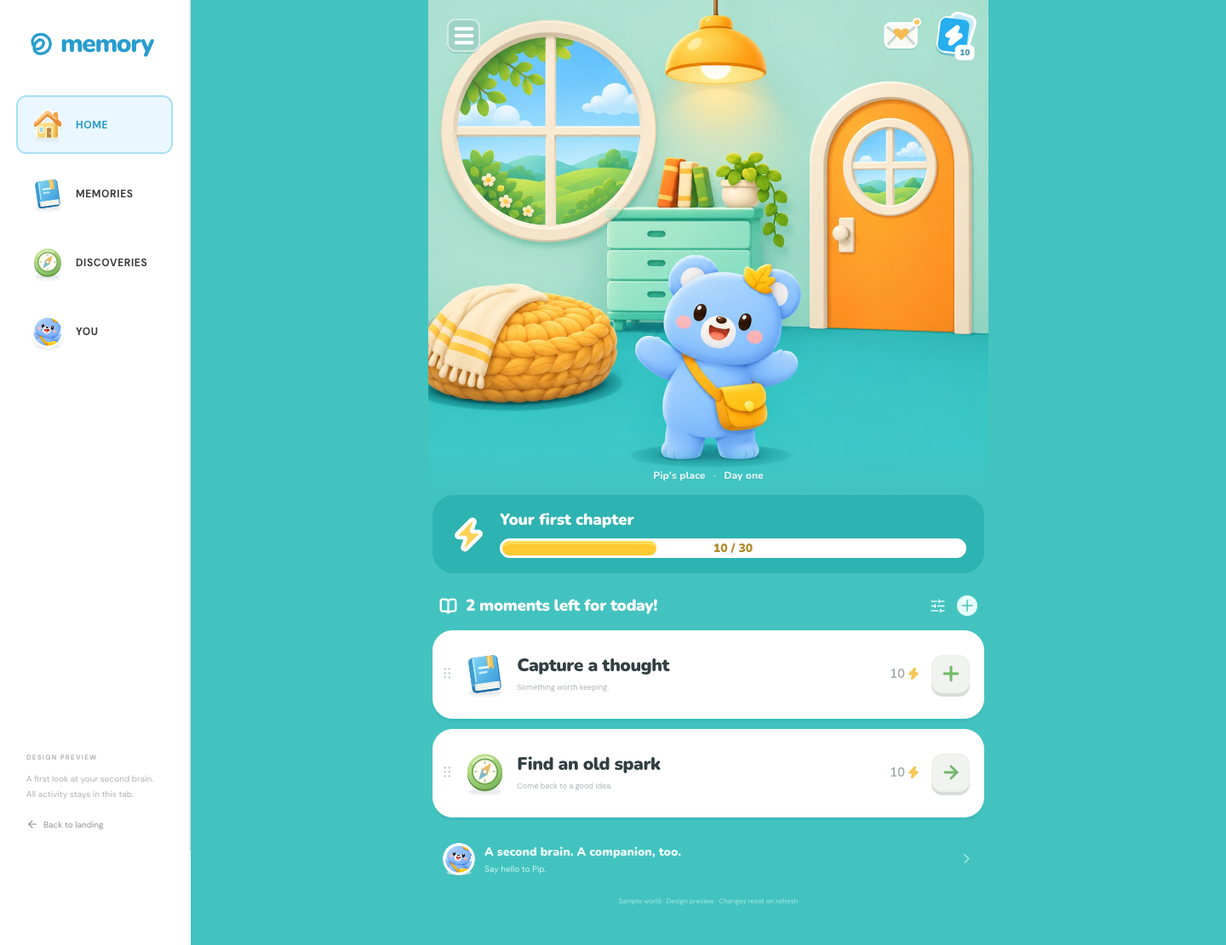
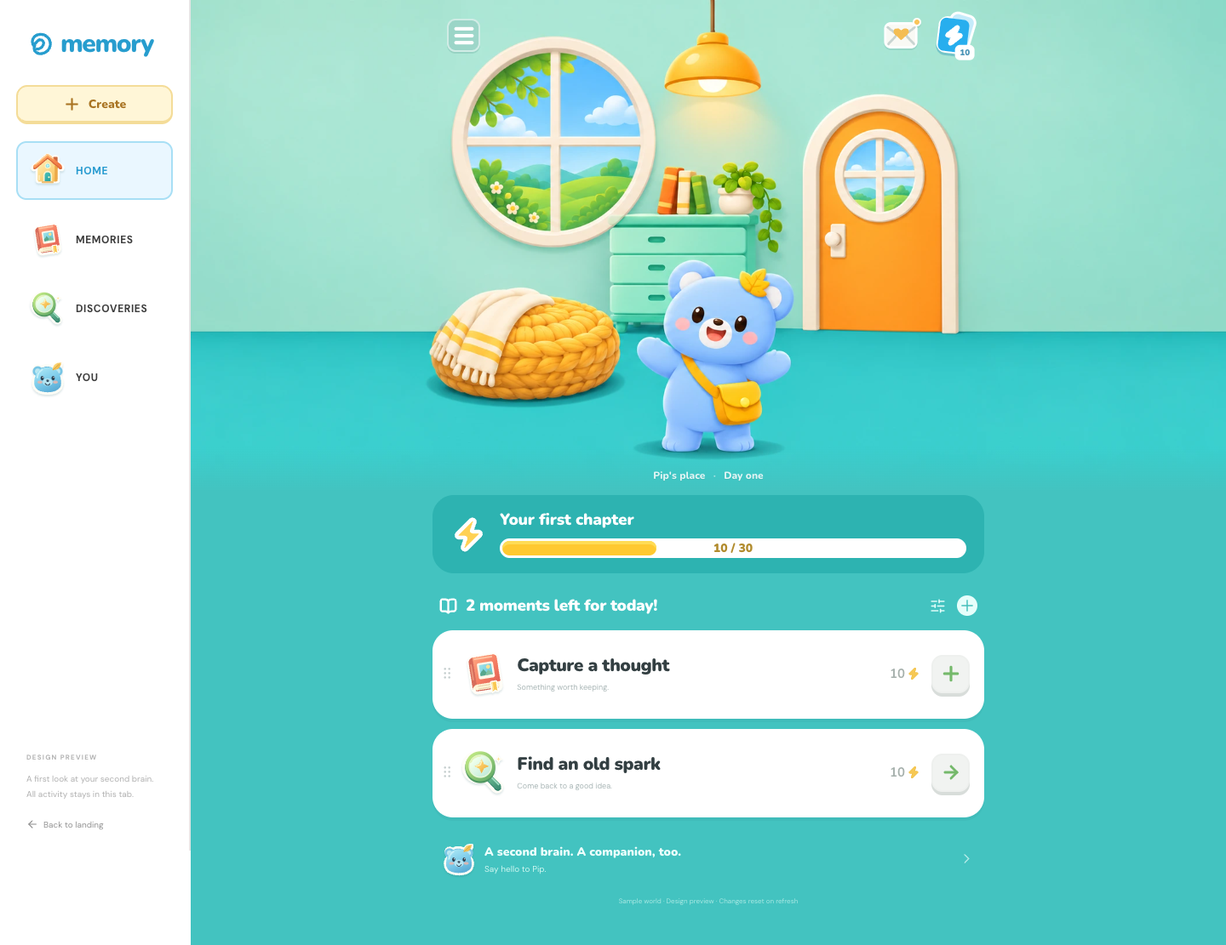
Refine app navigation and add quick actions and desktop room artwork

diff --git a/src/app/globals.css b/src/app/globals.css
@@ -93,8 +93,8 @@ svg { flex-shrink: 0; }
 .app-nav > button:hover { background: #f8f8f8; }
 .app-nav > button[aria-current="page"] { background: #eaf7ff; border-color: #a8dff5; color: #289bd0; }
 .nav-icon { display: flex; align-items: center; justify-content: center; width: 35px; height: 37px; }
-.illustrated-nav-icon { display: block; overflow: visible; transition: transform .18s; }
-.illustrated-nav-icon.icon-active { transform: translateY(-1px); }
+.illustrated-nav-icon { display: block; flex-shrink: 0; object-fit: contain; transition: transform .18s; }
+.illustrated-nav-icon.icon-active { transform: translateY(-2px); }
 .nav-home { color: #edb441; }.nav-memories { color: #6ab1d5; }.nav-discoveries { color: #8bbd59; }.nav-you { color: #be9cd5; }
 .sidebar-bottom { margin-top: auto; padding: 24px 12px 0; }
 .design-preview-label { font-size: 8px; letter-spacing: 1.2px; font-weight: 700; color: #b2b2b2; }
@@ -205,7 +205,7 @@ svg { flex-shrink: 0; }
 /* Immersive companion world: the room and daily moments share one canvas. */
 .world-app .nav-icon { width: 42px; height: 43px; }
 .world-app .app-nav > button { min-height: 65px; gap: 12px; }
-.world-app .illustrated-nav-icon { filter: drop-shadow(1px 0 0 #fff) drop-shadow(-1px 0 0 #fff) drop-shadow(0 1px 0 #fff) drop-shadow(0 -1px 0 #fff) drop-shadow(0 2px 0 #31575814); }
+.world-app .illustrated-nav-icon { filter: drop-shadow(0 2px 1px #215d6026); }
 .world-home .app-body { background: #43c3c0; min-height: 100svh; padding: 0 32px 115px; }
 .world-home .app-topbar { display: none; }
 .world-home .dashboard-layout { display: block; width: min(100%, 590px); padding: 0; }
@@ -213,6 +213,7 @@ svg { flex-shrink: 0; }
 .world-home .app-right-rail { display: none; }
 .world-scene { position: relative; margin-inline: -32px; isolation: isolate; }
 .world-room-art { width: 100%; height: auto; display: block; aspect-ratio: 1.04; object-fit: cover; object-position: center 30%; }
+.world-room-picture { display: block; }
 .world-scene::after { position: absolute; content: ""; bottom: -1px; left: 0; right: 0; height: 52px; background: linear-gradient(transparent, #43c3c0); pointer-events: none; }
 .world-toolbar { position: absolute; top: 20px; left: 22px; right: 22px; display: flex; align-items: center; justify-content: space-between; z-index: 4; }
 .world-menu-button { width: 39px; height: 39px; padding: 3px; display: flex; align-items: center; justify-content: center; border-radius: 10px; color: #fff; background: #649d9a38; border: 2px solid #fff8; backdrop-filter: blur(4px); box-shadow: 0 2px 0 #417c7730; }
@@ -263,17 +264,17 @@ svg { flex-shrink: 0; }
 .world-pip-note > span { flex: 1; display: flex; flex-direction: column; gap: 4px; }.world-pip-note strong { font-family: var(--round); font-size: 14px; font-weight: 900; }.world-pip-note > span > span { font-size: 10px; color: #d0f7f1; }.world-pip-note > svg:last-child { opacity: .65; }
 .world-home .app-preview-note { padding-top: 5px; color: #dcfbf5a8; font-size: 8px; }
 .world-app .bottom-nav { display: none; position: fixed; bottom: 0; right: 0; left: 224px; height: calc(96px + env(safe-area-inset-bottom)); padding: 8px max(14px, calc((100% - 920px) / 2)) calc(8px + env(safe-area-inset-bottom)); background: #65cfcb; border-top: 2px solid #a2e8df99; justify-content: center; align-items: stretch; gap: 26px; z-index: 30; }
-.world-app .bottom-nav > button { width: 91px; flex-shrink: 0; display: flex; align-items: center; justify-content: center; flex-direction: column; border-radius: 16px; gap: 3px; color: #f1fffc; border: 2px solid transparent; font-family: var(--round); font-size: 12px; font-weight: 900; text-shadow: 0 1px 1px #287e7924; }
-.world-app .bottom-nav > button[aria-current="page"] { background: #c6ffed42; border-color: #c6ffed22; color: #fff; }
+.world-app .bottom-nav > button { width: 91px; flex-shrink: 0; display: flex; align-items: center; justify-content: center; flex-direction: column; border-radius: 16px; gap: 3px; color: #fff; border: 2px solid transparent; font-family: var(--round); font-size: 12px; font-weight: 900; transition: background .18s, border-color .18s; }
+.world-app .bottom-nav > button[aria-current="page"] { background: rgb(255 255 255 / 50%); border-color: transparent; color: #fff; box-shadow: none; }
 .world-app .app-body { padding-bottom: 45px; }
 @media (min-width: 1201px) { .world-home .dashboard-layout { width: min(100%, 630px); }.world-scene { margin-inline: -14px; }.world-room-art { aspect-ratio: 1.14; } }
 @media (max-width: 1200px) { .world-app .bottom-nav { left: 190px; }.world-app .app-nav > button { gap: 10px; font-size: 10px; }.world-app .nav-icon { width: 38px; }.world-app .app-nav .illustrated-nav-icon { width: 38px; height: 38px; } }
-@media (max-width: 1000px) { .world-app .bottom-nav { left: 175px; gap: 16px; }.world-home .app-body { padding-inline: 24px; }.world-scene { margin-inline: -24px; }.world-app .app-nav > button { padding-inline: 10px; gap: 7px; font-size: 9px; }.world-app .nav-icon { width: 35px; }.world-app .app-nav .illustrated-nav-icon { width: 35px; height: 35px; }.world-home .dashboard-layout { max-width: 570px; }.world-goal strong { font-size: 19px; }.world-daily-heading h2 { font-size: 18px; } }
+@media (max-width: 1000px) { .world-app .bottom-nav { left: 175px; gap: 16px; }.world-home .app-body { padding-inline: 24px; }.world-scene { margin-inline: -24px; }.world-home .dashboard-layout { max-width: 570px; }.world-app .app-nav > button { padding-inline: 10px; gap: 7px; font-size: 9px; }.world-app .nav-icon { width: 35px; }.world-app .app-nav .illustrated-nav-icon { width: 35px; height: 35px; }.world-goal strong { font-size: 19px; }.world-daily-heading h2 { font-size: 18px; } }
 @media (max-width: 700px) {
-  .world-app .bottom-nav { display: flex; left: 0; gap: 0; height: calc(88px + env(safe-area-inset-bottom)); padding: 7px 9px calc(6px + env(safe-area-inset-bottom)); justify-content: space-around; }
-  .world-app .bottom-nav > button { width: 23%; max-width: 98px; font-size: 11px; gap: 1px; border-radius: 14px; }
-  .world-app .bottom-nav .illustrated-nav-icon { width: 43px; height: 43px; }
-  .world-app .app-body { padding-bottom: calc(100px + env(safe-area-inset-bottom)); }
+  .world-app .bottom-nav { display: grid; grid-template-columns: repeat(2, minmax(0, 1fr)) 56px repeat(2, minmax(0, 1fr)); left: 0; gap: 0; height: calc(76px + env(safe-area-inset-bottom)); padding: 4px 9px calc(4px + env(safe-area-inset-bottom)); }
+  .world-app .bottom-nav > button { width: 100%; max-width: 98px; font-size: 11px; gap: 0; border-radius: 12px; }
+  .world-app .bottom-nav .illustrated-nav-icon { width: 32px; height: 32px; }
+  .world-app .app-body { padding-bottom: calc(82px + env(safe-area-inset-bottom)); }
   .world-home .app-body { padding-inline: 0; }
   .world-home .dashboard-layout { width: 100%; max-width: 520px; }
   .world-scene { margin: 0; }
@@ -284,7 +285,7 @@ svg { flex-shrink: 0; }
   .adventure-progress { padding: 14px 16px; border-radius: 22px; gap: 11px; margin-top: 3px; }.adventure-progress h2 { font-size: 17px; margin-bottom: 8px; }.adventure-bolt { width: 35px; height: 41px; }.adventure-track { height: 21px; border-width: 3px; }.adventure-track > strong { line-height: 15px; font-size: 13px; }
   .world-daily { margin-top: 22px; }.world-daily-heading { gap: 8px; padding-inline: 6px; margin-bottom: 14px; }.world-daily-heading h2 { font-size: 17px; letter-spacing: -.5px; }.world-daily-heading > svg { width: 18px; }.world-daily-heading > button { padding: 1px; }.world-daily-heading > button > svg { width: 17px; height: 17px; }
   .world-goal { min-height: 89px; padding: 14px 12px 15px 7px; border-radius: 21px; gap: 7px; margin-top: 11px; }.world-goal-handle { font-size: 18px; }.world-goal .world-goal-art { width: 45px; height: 45px; }.world-goal strong { font-size: 18px; line-height: 1.15; letter-spacing: -.5px; }.world-goal > div > span { font-size: 8px; margin-top: 5px; }.world-goal-energy { font-size: 13px; gap: 0; }.world-goal-energy > svg { width: 14px; }.world-goal > button { width: 37px; height: 38px; border-radius: 11px; margin-left: 1px; }.world-goal > button > svg { width: 23px; height: 23px; }
-  .world-pip-note { padding: 16px 8px 12px; gap: 7px; }.world-pip-note strong { font-size: 12px; }.world-pip-note > span > span { font-size: 9px; }.world-pip-note > svg:first-child { width: 35px; height: 35px; }.world-home .app-preview-note { padding-top: 4px; font-size: 6px; }
+  .world-pip-note { padding: 16px 8px 12px; gap: 7px; }.world-pip-note strong { font-size: 12px; }.world-pip-note > span > span { font-size: 9px; }.world-pip-note > .illustrated-nav-icon { width: 35px; height: 35px; }.world-home .app-preview-note { padding-top: 4px; font-size: 6px; }
 }
 @media (max-width: 360px) { .world-content { margin-inline: 9px; }.world-daily-heading h2 { font-size: 15px; }.world-goal { gap: 5px; padding-right: 9px; }.world-goal strong { font-size: 16px; }.world-goal > div > span { font-size: 7px; }.world-goal .world-goal-art { width: 40px; height: 40px; }.world-goal-energy { font-size: 11px; }.world-goal > button { width: 32px; height: 34px; }.world-goal > button > svg { width: 20px; }.world-app .bottom-nav > button { font-size: 10px; }.world-pip-note strong { font-size: 11px; }.world-goal-handle { font-size: 15px; } }
 .world-app .persona-buddy.pip-artwork { height: auto; }
@@ -294,3 +295,56 @@ svg { flex-shrink: 0; }
 .world-app .companion-reveal > .pip-artwork { position: absolute; left: 50%; top: 0; width: 225px; height: 225px; object-fit: contain; transform: translateX(-50%); animation: buddy-hello .6s ease-out; }
 
 .world-energy-button::before { content: ""; position: absolute; inset: -1px; z-index: -1; border-radius: 7px; background: #27aeee; }
+
+@media (hover: hover) {
+  .world-app .bottom-nav > button:hover { background: #e7fff752; }
+  .world-app .bottom-nav > button:hover .illustrated-nav-icon { transform: translateY(-3px); }
+}
+.world-app .bottom-nav > button:focus-visible { outline: 3px solid #155b61; outline-offset: -3px; }
+.world-app .bottom-nav > button:active .illustrated-nav-icon { transform: translateY(1px) scale(.94); }
+
+/* A compact central launcher opens the full-screen activity overlay. */
+.quick-add-button { display: flex; align-items: center; justify-content: center; width: 48px; height: 48px; border-radius: 18px; border: 3px solid #fffbed; background: #fff1b9; color: #a97422; box-shadow: 0 3px 0 #d9b563, 0 5px 12px #237f7924; transition: transform .15s, background .15s; }
+.world-app .bottom-nav > .quick-add-button { width: 46px; height: 46px; margin: auto; border-radius: 16px; border: 3px solid #fffbed; background: #fff1b9; color: #a97422; box-shadow: 0 3px 0 #d9b563; }
+.quick-add-button:hover, .world-app .bottom-nav > .quick-add-button:hover { background: #ffe99c; }
+.quick-add-button:active { transform: translateY(2px); }
+.quick-add-button:focus-visible { outline: 3px solid #155b61; outline-offset: 4px; }
+.sidebar-quick-add { width: 100%; min-height: 46px; display: flex; align-items: center; justify-content: center; gap: 9px; margin-top: 28px; border: 2px solid #f4dc98; border-bottom-width: 4px; border-radius: 13px; background: #fff6d7; color: #a97422; font-family: var(--round); font-size: 14px; font-weight: 850; }
+.sidebar-quick-add:hover { background: #ffefbd; }
+.sidebar-quick-add:active { transform: translateY(2px); }
+.sidebar-quick-add + .app-nav { margin-top: 20px; }
+.quick-actions-dialog { position: fixed; inset: 0; width: 100%; max-width: none; height: 100dvh; max-height: none; margin: 0; border: 0; border-radius: 0; background: transparent; color: #fff; box-shadow: none; overscroll-behavior: contain; }
+.quick-actions-dialog::backdrop { background: #0d1414f2; backdrop-filter: blur(2px); }
+.quick-actions-content { min-height: 100%; width: min(100%, 368px); margin-inline: auto; padding: 32px 24px calc(22px + env(safe-area-inset-bottom)); display: flex; flex-direction: column; justify-content: flex-end; }
+.quick-actions-list { display: grid; gap: 10px; }
+.quick-actions-list > button { display: flex; align-items: center; gap: 17px; min-height: 48px; padding: 2px 8px; color: #fff; text-align: left; font-family: var(--round); font-size: 24px; font-weight: 900; line-height: 1.2; letter-spacing: -.4px; border-radius: 14px; transition: background .15s, transform .15s; }
+.quick-actions-list > button:hover { background: #ffffff0d; transform: translateX(3px); }
+.quick-action-icon { width: 44px; height: 44px; display: flex; flex-shrink: 0; align-items: center; justify-content: center; border: 3px solid #fffef5; border-radius: 43% 39% 42% 38%; background: var(--action-color); box-shadow: inset 0 -4px 0 var(--action-shade), 0 2px 1px #0002; transform: rotate(-10deg); color: #fff; }
+.quick-action-icon > svg { transform: rotate(10deg); }
+.quick-actions-footer { display: flex; align-items: center; justify-content: center; gap: 28px; padding-top: 23px; }
+.quick-actions-footer > button { display: flex; align-items: center; justify-content: center; color: #fff; background: #ffffff29; transition: background .15s, transform .15s; }
+.quick-actions-footer > button:hover { background: #ffffff40; }
+.quick-actions-footer > button:active { transform: scale(.94); }
+.quick-actions-utility { position: relative; width: 49px; height: 49px; border-radius: 50%; }
+.quick-actions-close { width: 72px; height: 58px; border-radius: 24px; }
+.quick-utility-check { position: absolute; left: 12px; top: 15px; background: #3b4141; }
+.quick-actions-content button:focus-visible { outline: 2px solid #fff7ce; outline-offset: 5px; }
+.quick-action-detail { display: flex; flex-direction: column; align-items: flex-start; min-height: 380px; justify-content: center; padding-inline: 8px; }
+.quick-actions-back { display: flex; align-items: center; gap: 8px; font-size: 12px; font-weight: 700; color: #d8e1df; padding-block: 10px; margin-bottom: 30px; }
+.quick-action-detail > .quick-action-icon { width: 62px; height: 62px; margin-bottom: 24px; }
+.quick-action-detail > .quick-action-icon > svg { width: 33px; height: 33px; }
+.quick-action-detail h3 { font-family: var(--round); font-size: 30px; font-weight: 900; letter-spacing: -.5px; outline: none; }
+.quick-action-detail p { font-size: 14px; line-height: 1.8; color: #c0cdca; margin-top: 15px; }
+.quick-action-preview { display: block; color: #8eaaa2; font-size: 11px; margin-top: 24px; }
+.quick-action-primary { display: flex; align-items: center; justify-content: center; gap: 9px; width: 100%; background: #ffffff18; border: 1px solid #ffffff24; border-radius: 14px; color: #fff; font-size: 13px; font-weight: 750; padding: 15px 12px; margin-top: 24px; }
+/* Only the landscape artwork extends outward; the original UI keeps its dimensions. */
+@media (min-width: 701px) {
+  .world-home { --room-canvas-width: calc(100vw - 224px); }
+  .world-room-picture { position: relative; aspect-ratio: 1.04; }
+  .world-room-picture > .world-room-art { position: absolute; top: 0; left: 50%; transform: translateX(-50%); width: var(--room-canvas-width); height: 100%; aspect-ratio: auto; object-position: center; }
+  .world-scene::after { left: 50%; right: auto; transform: translateX(-50%); width: var(--room-canvas-width); }
+}
+@media (min-width: 701px) and (max-width: 1000px) { .world-home { --room-canvas-width: calc(100vw - 175px); } }
+@media (min-width: 1001px) and (max-width: 1200px) { .world-home { --room-canvas-width: calc(100vw - 190px); } }
+@media (min-width: 1201px) { .world-room-picture { aspect-ratio: 1.14; } }
+@media (max-height: 700px) { .quick-actions-content { padding-top: 18px; padding-bottom: calc(14px + env(safe-area-inset-bottom)); }.quick-actions-list { gap: 5px; }.quick-actions-list > button { min-height: 43px; font-size: 21px; }.quick-action-icon { width: 38px; height: 38px; }.quick-action-icon > svg { width: 23px; height: 23px; }.quick-actions-footer { padding-top: 17px; }.quick-actions-close { height: 51px; } }

diff --git a/src/app/home/page.tsx b/src/app/home/page.tsx
@@ -1,11 +1,12 @@
 "use client";
 
-import { useEffect, useRef, useState } from "react";
+import { Fragment, useEffect, useRef, useState } from "react";
 import Link from "next/link";
 import Image from "next/image";
 import { ArrowLeft, ArrowRight, BookOpen, Check, ChevronRight, Compass, Flame, Lightbulb, MessageCircle, Menu, Plus, Search, SlidersHorizontal, Sparkles, Sun, Trophy, X, Zap } from "lucide-react";
 import { LoopMark } from "@/components/brand";
 import { HomeIcon, MemoriesIcon, DiscoveriesIcon, ProfileIcon } from "@/components/navigation-icons";
+import { QuickActions } from "@/components/quick-actions";
 
 const initialMemories = [
   { id: 1, title: "An idea I keep coming back to", text: "I want to build something that helps people remember what matters to them. A second brain that feels personal.", type: "Idea", date: "Today", color: "yellow" },
@@ -15,7 +16,7 @@ const initialMemories = [
 
 type Memory = typeof initialMemories[number];
 type View = "home" | "memories" | "discoveries" | "you";
-type Dialog = "capture" | "companion" | "memory" | null;
+type Dialog = "capture" | "companion" | "memory" | "quick-actions" | null;
 const navigation = [{ id: "home" as const, label: "Home", icon: HomeIcon }, { id: "memories" as const, label: "Memories", icon: MemoriesIcon }, { id: "discoveries" as const, label: "Discoveries", icon: DiscoveriesIcon }, { id: "you" as const, label: "You", icon: ProfileIcon }];
 
 function PipArtwork({ className = "" }: { className?: string }) {
@@ -84,6 +85,7 @@ export default function MemoryHome() {
     <div className={`app-shell world-app ${view === "home" ? "world-home" : ""}`}>
       <aside className="app-sidebar">
         <Link href="/" className="wordmark" aria-label="Memory landing page"><LoopMark />memory</Link>
+        <button className="sidebar-quick-add" aria-label="Open quick actions" aria-haspopup="dialog" onClick={() => openDialog("quick-actions")}><Plus size={21} strokeWidth={2.5} /> Create</button>
         <nav className="app-nav" aria-label="Main navigation">{navigation.map(({ id, label, icon: Icon }) => <button key={id} aria-current={view === id ? "page" : undefined} onClick={() => changeView(id)}><span className={`nav-icon nav-${id}`}><Icon size={42} active={view === id} /></span>{label}</button>)}</nav>
         <div className="sidebar-bottom"><span className="design-preview-label">DESIGN PREVIEW</span><p>A first look at your second brain. All activity stays in this tab.</p><Link href="/"><ArrowLeft size={14} /> Back to landing</Link></div>
       </aside>
@@ -94,7 +96,10 @@ export default function MemoryHome() {
             {view === "home" && <>
               <h1 className="sr-only">Your space, your story.</h1>
               <section className="world-scene" aria-label="Pip's room">
-                <Image className="world-room-art" src="/art/pip-room-v2.webp" alt="Pip, a happy blue memory companion, in a sunlit mint room with an orange door and a golden reading cushion" width={1254} height={1254} unoptimized preload />
+                <picture className="world-room-picture">
+                  <source media="(min-width: 701px)" srcSet="/art/pip-room-desktop-v1.webp" />
+                  <Image className="world-room-art" src="/art/pip-room-v2.webp" alt="Pip, a happy blue memory companion, in a sunlit mint room with an orange door and a golden reading cushion" width={1254} height={1254} unoptimized fetchPriority="high" />
+                </picture>
                 <div className="world-toolbar">
                   <button className="world-menu-button" aria-label={menuOpen ? "Close world menu" : "Open world menu"} aria-expanded={menuOpen} aria-controls="world-menu" onClick={() => setMenuOpen(!menuOpen)}>{menuOpen ? <X size={28} /> : <Menu size={28} />}</button>
                   <div className="world-toolbar-right">
@@ -145,12 +150,12 @@ export default function MemoryHome() {
           </aside>
         </div>
       </div>
-      <nav className="bottom-nav" aria-label="Mobile navigation">{navigation.map(({ id, label, icon: Icon }) => <button key={id} aria-current={view === id ? "page" : undefined} onClick={() => changeView(id)}><Icon size={46} active={view === id} /><span>{label}</span></button>)}</nav>
-      <dialog ref={dialogRef} className={`app-dialog ${dialog === "companion" ? "companion-dialog" : ""}`} aria-labelledby="dialog-title" onCancel={(event) => { event.preventDefault(); closeDialog(); }} onClick={(event) => { if (event.target === event.currentTarget) closeDialog(); }}><div className="app-dialog-content"><button className="dialog-close" onClick={closeDialog} aria-label="Close dialog"><X size={21} /></button>
+      <nav className="bottom-nav" aria-label="Mobile navigation">{navigation.map(({ id, label, icon: Icon }, index) => <Fragment key={id}>{index === 2 && <button className="quick-add-button" aria-label="Open quick actions" aria-haspopup="dialog" onClick={() => openDialog("quick-actions")}><Plus size={25} strokeWidth={3} /></button>}<button aria-current={view === id ? "page" : undefined} onClick={() => changeView(id)}><Icon size={46} active={view === id} /><span>{label}</span></button></Fragment>)}</nav>
+      <dialog ref={dialogRef} className={`app-dialog ${dialog === "companion" ? "companion-dialog" : ""} ${dialog === "quick-actions" ? "quick-actions-dialog" : ""}`} aria-labelledby="dialog-title" onCancel={(event) => { event.preventDefault(); closeDialog(); }} onClick={(event) => { if (event.target === event.currentTarget) closeDialog(); }}>{dialog === "quick-actions" ? <QuickActions onClose={closeDialog} onCapture={() => setDialog("capture")} onGoals={() => { closeDialog(); changeView("home"); requestAnimationFrame(() => document.getElementById("today-title")?.scrollIntoView({ block: "center" })); }} /> : <div className="app-dialog-content"><button className="dialog-close" onClick={closeDialog} aria-label="Close dialog"><X size={21} /></button>
         {dialog === "capture" && <><span className="capture-symbol"><Lightbulb size={26} /></span><h2 id="dialog-title">What&apos;s on your mind?</h2><p>An idea, a moment, a thought. Give it a place.</p><form onSubmit={(event) => { event.preventDefault(); saveMemory(); }}><label className="sr-only" htmlFor="memory-draft">Your thought</label><textarea id="memory-draft" autoFocus maxLength={1500} value={draft} onChange={(event) => setDraft(event.target.value)} placeholder="I've been thinking about…" required /><button className="button button-green" type="submit" disabled={!draft.trim()}>Keep this thought <Plus size={17} /></button></form><span className="capture-preview-note">Kept in this tab only. Nothing is uploaded.</span></>}
         {dialog === "companion" && <><div className="companion-reveal"><span className="reveal-spark reveal-spark-one">✦</span><PipArtwork /><span className="reveal-spark reveal-spark-two">✧</span></div><span className="companion-intro-label">EVERY STORY STARTS SOMEWHERE</span><h2 id="dialog-title">Hey, I&apos;m Pip.</h2><p>Your companion for the thoughts, discoveries, and moments that make you, you.</p><button className="button button-green" onClick={() => { closeDialog(); setView("home"); }}>Let&apos;s grow together <ArrowRight size={17} /></button></>}
         {dialog === "memory" && <><span className="capture-symbol yellow-capture"><BookOpen size={25} /></span><span className="read-meta">{selectedMemory.type} · {selectedMemory.date}</span><h2 id="dialog-title">{selectedMemory.title}</h2><p className="read-memory-text">{selectedMemory.text}</p><span className="read-saved"><Check size={15} /> A piece of your story.</span><button className="button button-outline" onClick={closeDialog}>Back to my world</button></>}
-      </div></dialog>
+      </div>}</dialog>
     </div>
   );
 }

diff --git a/src/components/navigation-icons.tsx b/src/components/navigation-icons.tsx
@@ -1,80 +1,21 @@
-"use client";
-
-import { useId } from "react";
+import Image from "next/image";
 
 type IconProps = { size?: number; active?: boolean; className?: string };
 type IconKind = "home" | "memories" | "discoveries" | "you";
 
-function IllustratedIcon({ kind, size = 34, active = false, className = "" }: IconProps & { kind: IconKind }) {
-  const id = useId();
-  const paint = (name: string) => `url(#${id}-${name})`;
-
+function IllustratedIcon({ kind, size = 48, active = false, className = "" }: IconProps & { kind: IconKind }) {
   return (
-    <svg
+    <Image
+      src={`/icons/${kind}.svg`}
       width={size}
       height={size}
-      viewBox="0 0 48 48"
-      fill="none"
-      className={`illustrated-nav-icon ${active ? "icon-active" : ""} ${className}`}
+      alt=""
       aria-hidden="true"
-      focusable="false"
+      draggable={false}
+      unoptimized
+      className={`illustrated-nav-icon ${active ? "icon-active" : ""} ${className}`}
       data-icon={kind}
-    >
-      <defs>
-        <linearGradient id={`${id}-gold`} x1="13" y1="18" x2="35" y2="43" gradientUnits="userSpaceOnUse"><stop stopColor="#FFE9A5" /><stop offset="1" stopColor="#F4BE49" /></linearGradient>
-        <linearGradient id={`${id}-roof`} x1="14" y1="9" x2="29" y2="27" gradientUnits="userSpaceOnUse"><stop stopColor="#FFBA6A" /><stop offset="1" stopColor="#EC8A36" /></linearGradient>
-        <linearGradient id={`${id}-book`} x1="12" y1="8" x2="37" y2="35" gradientUnits="userSpaceOnUse"><stop stopColor="#81D6F5" /><stop offset="1" stopColor="#3B9ADA" /></linearGradient>
-        <linearGradient id={`${id}-green`} x1="14" y1="7" x2="35" y2="40" gradientUnits="userSpaceOnUse"><stop stopColor="#C1E593" /><stop offset="1" stopColor="#7BB65B" /></linearGradient>
-        <linearGradient id={`${id}-pip`} x1="14" y1="9" x2="36" y2="42" gradientUnits="userSpaceOnUse"><stop stopColor="#A9E5F0" /><stop offset="1" stopColor="#6CC6DC" /></linearGradient>
-      </defs>
-      <ellipse cx="24" cy="43" rx="16.5" ry="2.5" fill="#365369" opacity=".10" />
-
-      {kind === "home" && <>
-        <rect x="32" y="8" width="6" height="14" rx="1.8" fill="#ECA84A" />
-        <path d="M10 22h28v17a3 3 0 0 1-3 3H13a3 3 0 0 1-3-3V22Z" fill={paint("gold")} />
-        <path d="M34 22h4v17a3 3 0 0 1-3 3h-1V22Z" fill="#DDA63E" opacity=".65" />
-        <path d="M6 23.5 21.5 9a3.7 3.7 0 0 1 5 0L42 23.5a2.2 2.2 0 0 1-2.9 3.3L24 13.4 8.9 26.8A2.2 2.2 0 0 1 6 23.5Z" fill="#D88232" />
-        <path d="M6 21.3 21.5 6.8a3.7 3.7 0 0 1 5 0L42 21.3a2.2 2.2 0 0 1-2.9 3.3L24 11.2 8.9 24.6A2.2 2.2 0 0 1 6 21.3Z" fill={paint("roof")} />
-        <path d="m8.5 20.5 14-12.3a2.1 2.1 0 0 1 2.8 0l10.2 9" stroke="#FFDB9C" strokeWidth="1.5" strokeLinecap="round" />
-        <path d="M21 29a2 2 0 0 1 2-2h6a2 2 0 0 1 2 2v13H21V29Z" fill="#FFF1C0" />
-        <path d="M23 30a1 1 0 0 1 1-1h4a1 1 0 0 1 1 1v12h-6V30Z" fill="#BA8A42" />
-        <circle cx="27.2" cy="36" r=".9" fill="#FFF3C5" />
-        <rect x="12.7" y="27.7" width="5.7" height="7.7" rx="1.2" fill="#86D3E6" stroke="#FFF2CA" strokeWidth="1.8" />
-        <path d="M15.6 28v7" stroke="#D9F3F5" strokeWidth="1" />
-      </>}
-
-      {kind === "memories" && <g transform="rotate(-8 24 24)">
-        <rect x="9" y="6" width="30" height="36" rx="4.5" fill="#287BB5" />
-        <rect x="12" y="31" width="26" height="10" rx="3" fill="#E3EBE8" />
-        <path d="M15 33h20m-20 3h20m-20 3h20" stroke="#FFFDF2" strokeWidth="1.5" strokeLinecap="round" />
-        <path d="M9 11a5 5 0 0 1 5-5h21a3 3 0 0 1 3 3v24H14a5 5 0 0 0-5 5V11Z" fill={paint("book")} />
-        <path d="M14 8v22" stroke="#BCEBFA" strokeWidth="1.4" strokeLinecap="round" />
-        <path d="M9 11a5 5 0 0 1 4-4.9V32a5 5 0 0 0-4 5V11Z" fill="#3E9DCF" />
-        <path d="M28 6h6v14l-3-2.7L28 20V6Z" fill="#F5C251" />
-        <path d="M30 7v9" stroke="#FFE5A4" strokeWidth="1.3" strokeLinecap="round" />
-        <rect x="18" y="16" width="11" height="2.3" rx="1.15" fill="#EAF9FF" />
-        <rect x="18" y="21" width="9" height="2.3" rx="1.15" fill="#C3ECFA" />
-        <path d="M11 40c1 1 2 1 4 1h21" stroke="#246FA5" strokeWidth="2.2" strokeLinecap="round" />
-      </g>}
-
-      {kind === "discoveries" && <>
-        <circle cx="24" cy="25" r="18" fill="#639747" />
-        <circle cx="24" cy="22.8" r="18" fill={paint("green")} />
-        <path d="M12 15a15 15 0 0 1 20-5" stroke="#DFEFC1" strokeWidth="2" strokeLinecap="round" />
-        <circle cx="24" cy="22.8" r="12.7" fill="#FFFDF1" stroke="#70A44E" strokeWidth="1.5" />
-        <path d="M24 12.5v2m0 16.6v2M13.7 22.8h2m16.6 0h2" stroke="#B7CAA1" strokeWidth="1.6" strokeLinecap="round" />
-        <path d="m30.4 14.3-3.5 11.3-9.3 5.7 3.5-11.4 9.3-5.6Z" fill="#557D83" opacity=".15" transform="translate(0 1)" />
-        <path d="m30.4 14.3-3.5 11.3-5.8-5.7 9.3-5.6Z" fill="#F0B65B" />
-        <path d="m17.6 31.3 3.5-11.4 5.8 5.7-9.3 5.7Z" fill="#7ABAC7" />
-        <circle cx="24" cy="22.8" r="2.1" fill="#FFFEF8" stroke="#C2B78D" strokeWidth="1" />
-      </>}
-
-      {kind === "you" && <>
-        <defs><clipPath id={`${id}-portrait`}><circle cx="24" cy="24" r="18.8" /></clipPath></defs>
-        <circle cx="24" cy="24" r="20" fill="#E6F7FF" stroke="#FFF" strokeWidth="2" />
-        <image href="/art/pip-character-v2.webp" x="-5" y="-4" width="58" height="67" preserveAspectRatio="xMidYMin slice" clipPath={paint("portrait")} />
-      </>}
-    </svg>
+    />
   );
 }
 

diff --git a/src/components/quick-actions.tsx b/src/components/quick-actions.tsx
@@ -1,0 +1,53 @@
+"use client";
+
+import { type CSSProperties, useRef, useState } from "react";
+import { ArrowLeft, Check, ClipboardList, Footprints, HeartHandshake, Leaf, Music2, NotebookPen, Shield, Timer, Wind, X } from "lucide-react";
+
+const actions = [
+  { id: "first-aid", label: "First Aid", color: "#E96D77", shade: "#CA505E", icon: Shield, description: "A place for comforting memories and grounding reminders. Keep something you can come back to.", prompt: "Keep a comforting thought" },
+  { id: "kindness", label: "Act of Kindness", color: "#A6C984", shade: "#79A85C", icon: HeartHandshake, description: "A small kind moment is worth remembering. What did someone do for you, or you for someone else?", prompt: "Remember a kind moment" },
+  { id: "timers", label: "Timers", color: "#F8D889", shade: "#E9B855", icon: Timer, description: "Make a little space to focus, pause, or reflect. Your focus timers will live here." },
+  { id: "soundscapes", label: "Soundscapes", color: "#7467E5", shade: "#5144C0", icon: Music2, description: "A little background calm for your thoughts. Your collection of sounds will live here." },
+  { id: "movements", label: "Movements", color: "#DC73AA", shade: "#BC4E87", icon: Footprints, description: "Step away, stretch, and make space for a new thought. Your movement breaks will live here." },
+  { id: "breathe", label: "Breathe", color: "#9A86DC", shade: "#7461BE", icon: Wind, description: "A quiet moment to come back to yourself. Your guided breathing space will live here." },
+  { id: "quizzes", label: "Quizzes", color: "#F1BE66", shade: "#D69A3C", description: "Discover a little more about the way you think. Your self-discovery quizzes will live here." },
+  { id: "reflections", label: "Reflections", color: "#89C7CE", shade: "#5AA4AE", icon: Leaf, description: "Give a thought, a feeling, or a moment a place in your second brain." },
+  { id: "goals", label: "Goals", color: "#9CC874", shade: "#76A754", icon: ClipboardList, description: "Come back to the little moments that grow your world." },
+];
+
+type Action = typeof actions[number];
+
+function ActionIcon({ action }: { action: Action }) {
+  const Icon = action.icon;
+  return <span className="quick-action-icon" style={{ "--action-color": action.color, "--action-shade": action.shade } as CSSProperties} aria-hidden="true">
+    {Icon ? <Icon size={26} strokeWidth={2} /> : <svg width="27" height="27" viewBox="0 0 28 28" fill="none"><path d="m4 4 6 6m0-6-6 6m14 9 6 6m0-6-6 6" stroke="currentColor" strokeWidth="2" strokeLinecap="round" /><circle cx="21" cy="7" r="4" stroke="currentColor" strokeWidth="2" /><circle cx="7" cy="22" r="4" stroke="currentColor" strokeWidth="2" /></svg>}
+  </span>;
+}
+
+export function QuickActions({ onClose, onCapture, onGoals }: { onClose: () => void; onCapture: () => void; onGoals: () => void }) {
+  const [selected, setSelected] = useState<Action | null>(null);
+  const headingRef = useRef<HTMLHeadingElement>(null);
+
+  function chooseAction(action: Action) {
+    if (action.id === "reflections") return onCapture();
+    if (action.id === "goals") return onGoals();
+    setSelected(action);
+    requestAnimationFrame(() => headingRef.current?.focus());
+  }
+
+  return <div className="quick-actions-content">
+    <h2 id="dialog-title" className="sr-only">Quick actions</h2>
+    {selected ? <section className="quick-action-detail" aria-labelledby="activity-title">
+      <button className="quick-actions-back" onClick={() => setSelected(null)}><ArrowLeft size={18} /> All activities</button>
+      <ActionIcon action={selected} />
+      <h3 id="activity-title" ref={headingRef} tabIndex={-1}>{selected.label}</h3>
+      <p>{selected.description}</p>
+      {selected.prompt ? <button className="quick-action-primary" onClick={onCapture}>{selected.prompt}<NotebookPen size={19} /></button> : <><span className="quick-action-preview">Activity preview · Coming to your world</span><button className="quick-action-primary" onClick={() => setSelected(null)}>Explore other activities <ArrowLeft size={18} /></button></>}
+    </section> : <div className="quick-actions-list">{actions.map((action) => <button key={action.id} onClick={() => chooseAction(action)}><ActionIcon action={action} /><span>{action.label}</span></button>)}</div>}
+    <div className="quick-actions-footer">
+      <button className="quick-actions-utility" onClick={onCapture} aria-label="Capture a thought"><NotebookPen size={25} /></button>
+      <button className="quick-actions-close" onClick={onClose} aria-label="Close quick actions" autoFocus><X size={30} strokeWidth={3} /></button>
+      <button className="quick-actions-utility" onClick={onGoals} aria-label="View today's goals"><ClipboardList size={26} /><Check size={10} className="quick-utility-check" /></button>
+    </div>
+  </div>;
+}

diff --git a/design/desktop-room-art.md b/design/desktop-room-art.md
@@ -1,0 +1,16 @@
+# Desktop room artwork
+
+Generated with the built-in image_gen tool using `public/art/pip-room-v2.png` as the edit target. This is a separate landscape asset; the original mobile artwork remains unchanged.
+
+- Original: `public/art/pip-room-desktop-v1.png` (1859 × 846).
+- Web asset: `public/art/pip-room-desktop-v1.webp` (81 KB, WebP quality 92).
+- The desktop image extends the room horizontally. The scene retains the prior height, and cards, controls, navigation, and mobile layout keep their prior dimensions.
+- A responsive `<picture>` selects this asset above 700 CSS pixels. The square asset is used on mobile. Desktop cropping affects the extended sides, preserving the central character.
+
+## Exact prompt
+
+Use case: precise-object-edit.
+Asset type: wide landscape desktop room illustration for Memory, not a UI mockup.
+Edit target: the supplied square room illustration. Recreate it as an approximately 2.2:1 horizontal landscape canvas (about 2250 by 1024 pixels), by extending the room naturally to the left and right. This is a horizontal expansion, not a zoom-in.
+Preserve the original room's polished soft-shaded casual-game illustration style, mint walls, turquoise floor, warm daylight, round ivory window with blue sky and green hills, golden pendant lamp, mint drawers and books and trailing plant, orange arched door, and woven golden reading cushion. Keep the same blue bear Pip with rounded ears, dark eyes, happy open smile, golden leaf and yellow crossbody satchel. One Pip only, fully visible, centered horizontally in the expanded scene. Preserve Pip's reference appearance and proportions. Pip should occupy about 40 percent of canvas height, with both feet at roughly 87 percent of canvas height; keep the original vertical room composition. Expand the surroundings on both sides with matching uncluttered mint wall and continuing turquoise floor; modest extensions of the existing room furnishings are fine. Keep the reference's central arrangement recognizable. Do not enlarge Pip or the furniture to fill the wider canvas. The new width must come from more room, not stretched objects, cropping, repeated scenery, mirrored panels or blur. Perspective and floor/wall join must remain coherent across the expanded scene.
+The turquoise floor runs across the entire lower edge, ending in uniform #43C3C0 for seamless continuation into the webpage. No text, no labels, no menu icons, no interface controls, no progress bars, no borders, no letters, no watermark. Deliver a single wide original room illustration only.

diff --git a/README.md b/README.md
@@ -41,10 +41,11 @@ After deployment, `/` opens the landing page and `/home` opens the app preview d
 - An immersive teal after-login home with generated room artwork, a matching Pip character, chapter energy, large memory cards, and illustrated mobile navigation. Desktop navigation remains in the sidebar.
 - Memories, sample discoveries, and an illustrative persona. The example chapter starts with 10 sample energy; each daily prompt adds 10.
 - Local-only capture, search, daily progress, and companion introduction interactions. Added memories stay in React state and reset on refresh.
+- A centered mobile + button opens a dark quick-actions screen inspired by the supplied reference. Reflections and the capture shortcut open the local capture form; Goals returns to today's moments. Other categories show activity previews, with comforting-thought and kindness prompts linked to capture. The menu supports Escape, keyboard focus, and small-screen scrolling.
 - Illustrative content is marked as sample data. There is no backend, real authentication, analytics, or connected AI.
 
 Memory is a working name. Copy, colors, and the companion are an initial design direction.
 
 ## Artwork
 
-The generated room and transparent Pip character are stored in `public/art/`. The app uses compact WebP encodings. Exact prompts and generation provenance are documented in [design/room-art.md](design/room-art.md).
+The generated room and transparent Pip character are stored in `public/art/`. The app uses compact WebP encodings. Desktop selects a separate landscape room that extends sideways while preserving the original UI dimensions; mobile keeps the square artwork. Exact prompts and generation provenance are documented in [design/room-art.md](design/room-art.md) and [design/desktop-room-art.md](design/desktop-room-art.md).

diff --git a/design/navigation-icons.md b/design/navigation-icons.md
@@ -1,0 +1,14 @@
+# Memory navigation icons
+
+Four original SVG illustrations drawn for this project; no external icon pack or image generation is used for this set.
+
+| Asset | Meaning | Design |
+| --- | --- | --- |
+| `public/icons/home.svg` | Home | Amber-roofed house with a teal arched door |
+| `public/icons/memories.svg` | Memories | Coral photo journal with a golden bookmark |
+| `public/icons/discoveries.svg` | Discoveries | Green discovery lens with a golden spark |
+| `public/icons/you.svg` | You | Pip's blue face and golden leaf |
+
+Each uses a 72 × 72 canvas, warm white sticker edging, rounded forms, and shallow shading. Mobile navigation renders them at 32 CSS pixels in a 76-pixel bar, plus device safe-area space. The same assets appear in the desktop sidebar and matching home cards.
+
+The assets are self-contained and contain no scripts, fonts, external references, or embedded raster images. The React wrapper marks them decorative because their buttons already have visible text labels. The selected tab has a raised icon and a pale mint background; keyboard focus remains visible, and motion follows the app's reduced-motion setting.
